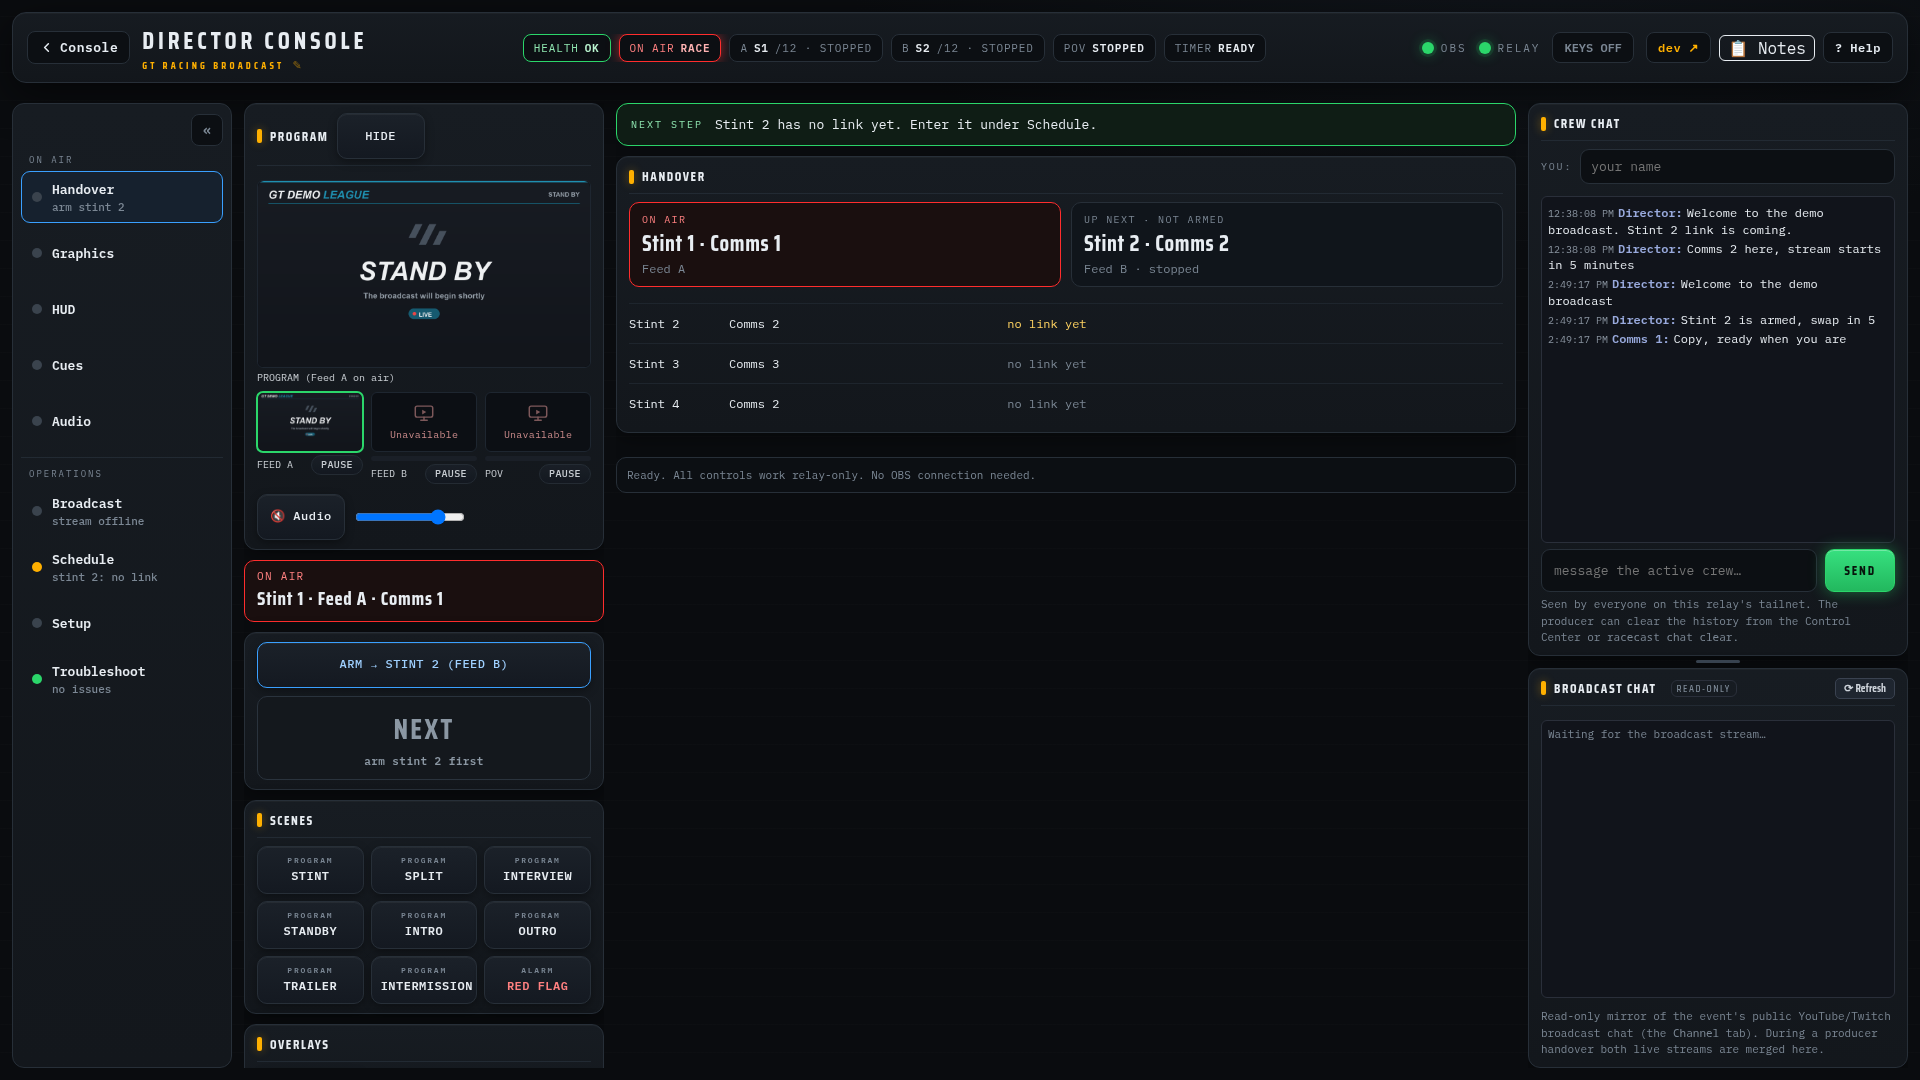
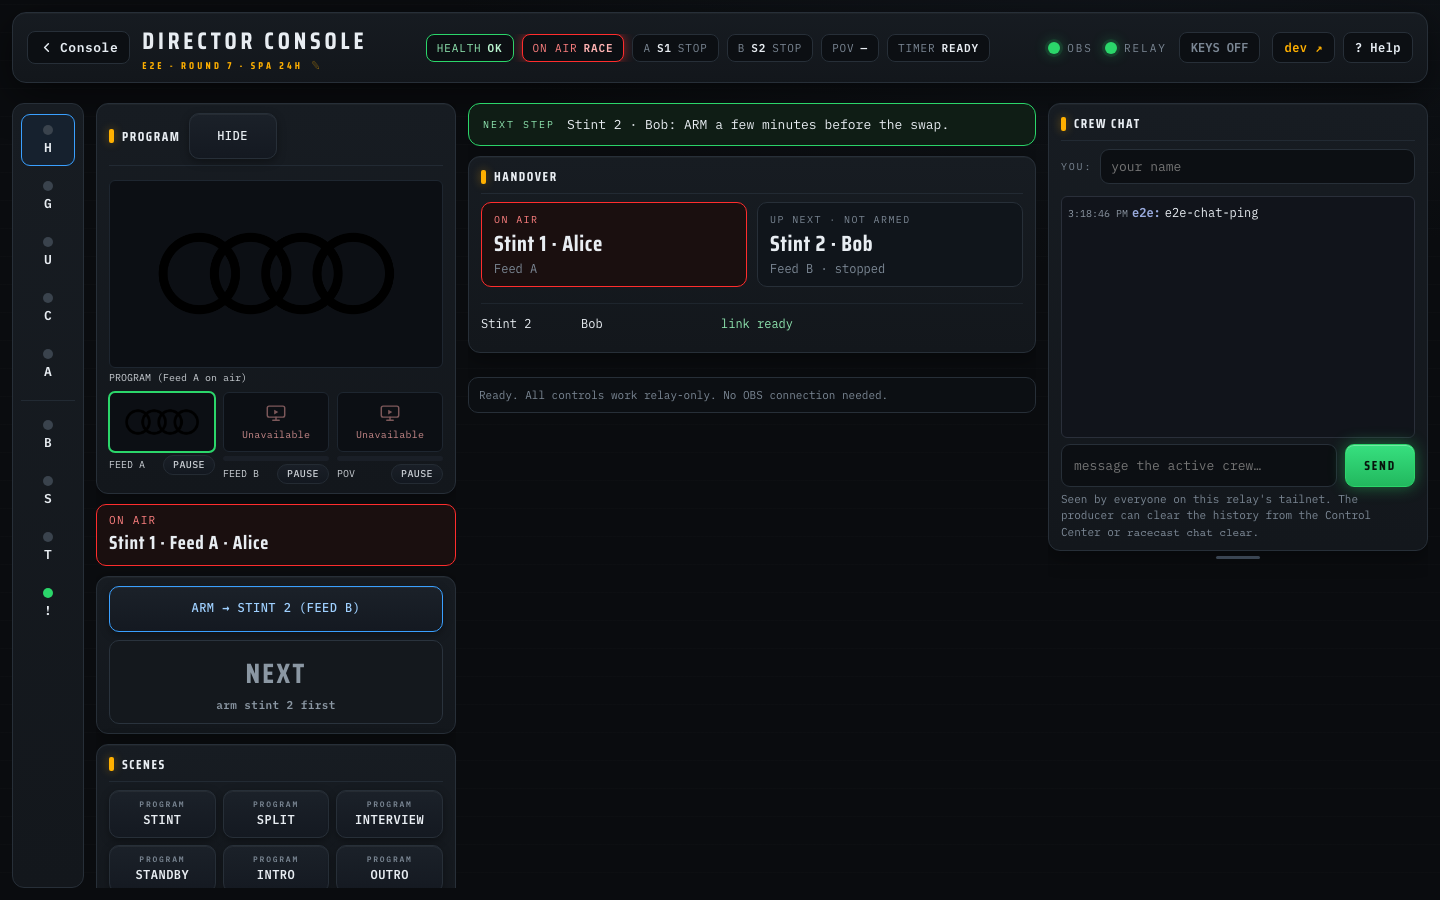
docs(ui): refresh telemetry and adaptive header screenshots

diff --git a/src/docs/wiki/Director.md b/src/docs/wiki/Director.md
@@ -52,6 +52,9 @@ The page is a fixed frame of four columns, so nothing you need on air scrolls aw
   divider between them (or focus it and use the arrow keys) to share the height; the
   panel remembers the split.
 
+The header status pills shorten or move to their own row as available space changes,
+including when the event title or other header controls grow.
+
 Below 1600 px width the navigation collapses to letters; the `«`/`»` key does the same
 on a wide screen. Below 1280 px the chats move into a drawer opened by the **Chats**
 button in the header, which also counts unread crew messages. Below 900 px (a phone)
